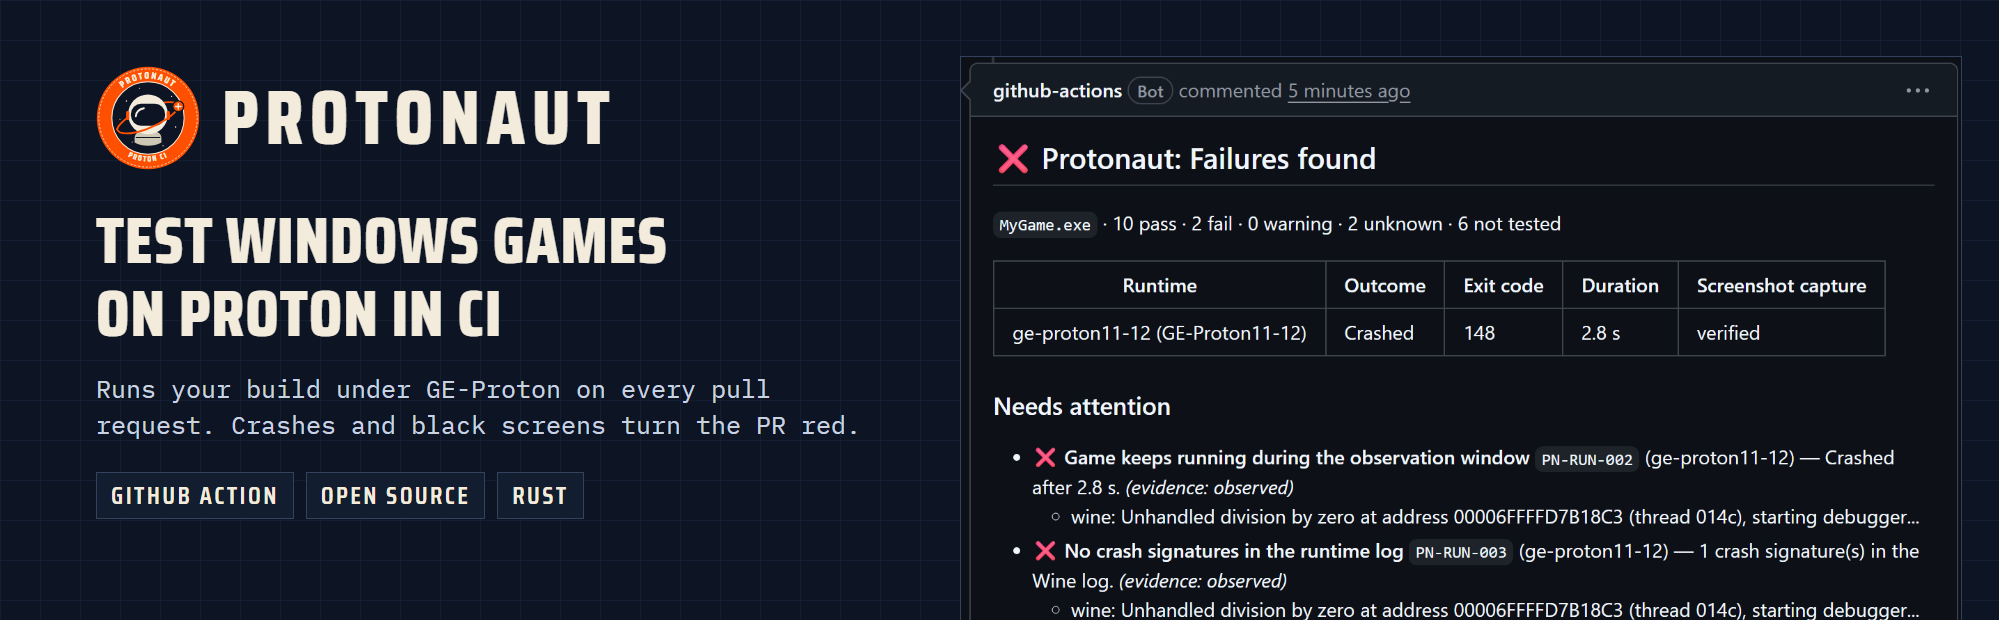
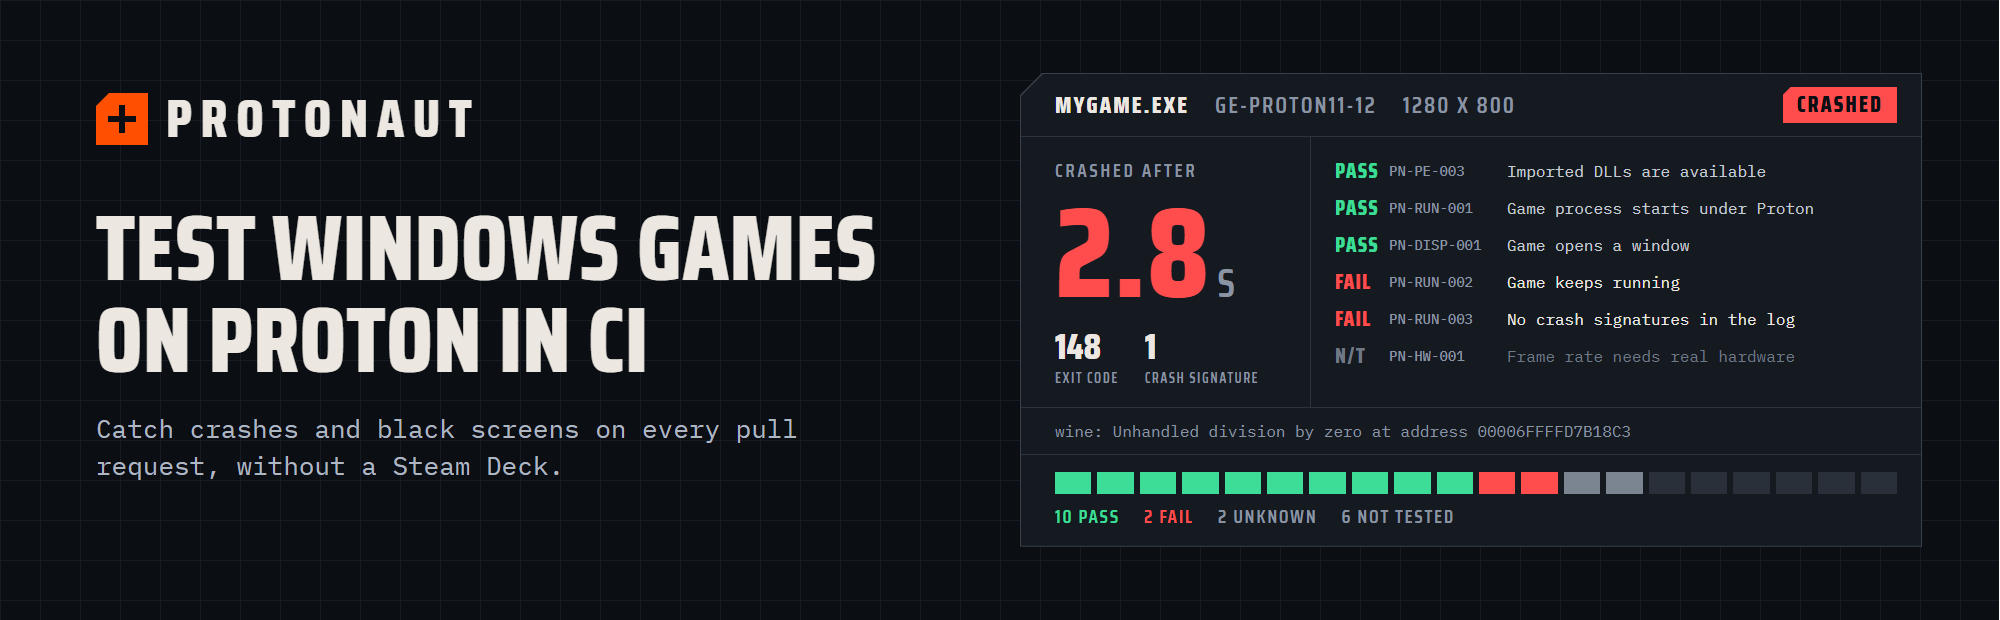
docs: replace the preview cards and unify the brand mark

diff --git a/docs/assets/src/panel.html b/docs/assets/src/panel.html
@@ -1,0 +1,49 @@
+<div class="edge"><div class="panel">
+  <div class="bar"><span class="exe">MYGAME.EXE</span><span class="dim">GE-PROTON11-12</span><span class="dim">1280 X 800</span><b class="chip">CRASHED</b></div>
+  <div class="main">
+    <div class="big">
+      <span class="lab">CRASHED AFTER</span>
+      <div class="num">2.8<small>S</small></div>
+      <div class="mini"><div><b>148</b><span>EXIT CODE</span></div><div><b>1</b><span>CRASH SIGNATURE</span></div></div>
+    </div>
+    <div class="list">
+      <div><i class="p">PASS</i><u>PN-PE-003</u>Imported DLLs are available</div>
+      <div><i class="p">PASS</i><u>PN-RUN-001</u>Game process starts under Proton</div>
+      <div><i class="p">PASS</i><u>PN-DISP-001</u>Game opens a window</div>
+      <div class="bad"><i class="f">FAIL</i><u>PN-RUN-002</u>Game keeps running</div>
+      <div class="bad"><i class="f">FAIL</i><u>PN-RUN-003</u>No crash signatures in the log</div>
+      <div class="dimrow"><i>N/T</i><u>PN-HW-001</u>Frame rate needs real hardware</div>
+    </div>
+  </div>
+  <pre>wine: Unhandled division by zero at address 00006FFFFD7B18C3</pre>
+  <div class="foot">
+    <div class="cells"><s class="p"></s><s class="p"></s><s class="p"></s><s class="p"></s><s class="p"></s><s class="p"></s><s class="p"></s><s class="p"></s><s class="p"></s><s class="p"></s><s class="f"></s><s class="f"></s><s class="u"></s><s class="u"></s><s></s><s></s><s></s><s></s><s></s><s></s></div>
+    <div class="count"><em class="pc">10 PASS</em><em class="fc">2 FAIL</em><em>2 UNKNOWN</em><em>6 NOT TESTED</em></div>
+  </div>
+</div></div>
+<style>
+.edge{--cut:22px;width:900px;background:#39414D;padding:1px;clip-path:polygon(var(--cut) 0,100% 0,100% 100%,0 100%,0 var(--cut))}
+.panel{background:#151A21;clip-path:polygon(var(--cut) 0,100% 0,100% 100%,0 100%,0 var(--cut));color:#ECE8E1}
+.bar{display:flex;align-items:center;gap:26px;height:62px;padding:0 24px 0 34px;border-bottom:1px solid #2C333D;font:600 23px/1 "Saira Condensed";letter-spacing:.09em}
+.exe{font-weight:800}.dim{color:#8A94A3}
+.chip{margin-left:auto;background:#FF4D4D;color:#0B0E13;font:800 22px/1 "Saira Condensed";letter-spacing:.09em;padding:7px 14px;clip-path:polygon(8px 0,100% 0,100% 100%,0 100%,0 8px)}
+.main{display:grid;grid-template-columns:290px 1fr;border-bottom:1px solid #2C333D}
+.big{padding:24px 26px 20px 34px;border-right:1px solid #2C333D}
+.lab{font:600 19px/1 "Saira Condensed";letter-spacing:.14em;color:#8A94A3}
+.num{font:800 128px/1 "Saira Condensed";color:#FF4D4D;margin:8px 0 12px}
+.num small{font:600 40px/1 "Saira Condensed";margin-left:8px;color:#8A94A3}
+.mini{display:flex;gap:26px}.mini b{display:block;font:800 36px/1 "Saira Condensed"}
+.mini span{display:block;font:600 14px/1.2 "Saira Condensed";letter-spacing:.11em;color:#8A94A3;margin-top:5px}
+.list{padding:15px 24px}
+.list div{display:grid;grid-template-columns:54px 118px 1fr;align-items:center;height:37px;font:400 16px/1 "IBM Plex Mono";color:#C5CBD3;white-space:nowrap}
+.list i{font:800 21px/1 "Saira Condensed";font-style:normal;letter-spacing:.06em}
+.list u{text-decoration:none;font:500 14px/1 "IBM Plex Mono";color:#8A94A3}
+.p{color:#3DDC97}.f{color:#FF4D4D}.bad{color:#ECE8E1!important}.dimrow,.dimrow i{color:#6F7885!important}
+pre{margin:0;padding:15px 34px;border-bottom:1px solid #2C333D;font:400 16px/1 "IBM Plex Mono";color:#8A94A3}
+.foot{padding:17px 24px 20px 34px}
+.cells{display:grid;grid-template-columns:repeat(20,1fr);gap:6px;margin-bottom:13px}
+.cells s{display:block;height:22px;background:#2A3039}
+.cells s.p{background:#3DDC97}.cells s.f{background:#FF4D4D}.cells s.u{background:#7B8592}
+.count{display:flex;gap:24px;font:600 19px/1 "Saira Condensed";letter-spacing:.09em;color:#8A94A3}
+.count em{font-style:normal}.pc{color:#3DDC97}.fc{color:#FF4D4D}
+</style>

diff --git a/site/index.html b/site/index.html
@@ -28,7 +28,7 @@
 @font-face{font-family:"Saira Condensed";font-weight:600;font-display:swap;src:url(assets/fonts/saira-condensed-latin-600-normal.woff2)}
 @font-face{font-family:"IBM Plex Mono";font-weight:400;font-display:swap;src:url(assets/fonts/ibm-plex-mono-latin-400-normal.woff2)}
 @font-face{font-family:"IBM Plex Mono";font-weight:500;font-display:swap;src:url(assets/fonts/ibm-plex-mono-latin-500-normal.woff2)}
-:root{--ink:#0D1524;--panel:#131D30;--line:#26334D;--bone:#F3ECDD;--mute:#A7B3C7;--orange:#FF4F00;--go:#39D98A;--nogo:#FF5C5C;--warn:#F2C14E}
+:root{--ink:#0B0E13;--panel:#151A21;--line:#2C333D;--bone:#ECE8E1;--mute:#A7B3C7;--orange:#FF4F00;--go:#39D98A;--nogo:#FF5C5C;--warn:#F2C14E}
 *{box-sizing:border-box}
 html{scroll-behavior:smooth}
 body{margin:0;background:var(--ink);color:var(--bone);font:400 17px/1.6 "IBM Plex Mono",ui-monospace,monospace;overflow-x:hidden}
@@ -45,7 +45,7 @@ h1,h2,h3{font-family:"Saira Condensed",sans-serif;line-height:1.02;margin:0}
 .hero h1{font-weight:800;font-size:clamp(48px,7.2vw,92px);letter-spacing:.005em}
 .hero h1 em{font-style:normal;color:var(--orange)}
 .lead{color:var(--mute);margin:24px 0 30px;max-width:560px}
-.cta{display:inline-flex;align-items:center;gap:12px;background:var(--orange);color:#0D1524;font:800 21px/1 "Saira Condensed";letter-spacing:.04em;padding:16px 26px;text-decoration:none;transition:transform .15s,background .15s}
+.cta{display:inline-flex;align-items:center;gap:12px;background:var(--orange);color:#0B0E13;font:800 21px/1 "Saira Condensed";letter-spacing:.04em;padding:16px 26px;text-decoration:none;transition:transform .15s,background .15s}
 .cta:hover{background:var(--bone);transform:translateX(5px)}
 .cta2{margin-left:18px;color:var(--bone);font-size:15px}
 .board{border:1px solid var(--line);background:var(--panel)}
@@ -55,10 +55,8 @@ h1,h2,h3{font-family:"Saira Condensed",sans-serif;line-height:1.02;margin:0}
 @keyframes in{to{opacity:1;transform:none}}
 .s-pass{color:var(--go)}.s-fail{color:var(--nogo)}.s-nt{color:var(--mute)}
 .call{display:flex;align-items:center;justify-content:space-between;gap:12px;border-top:1px solid var(--line);padding:14px 16px;font:800 34px/1 "Saira Condensed";letter-spacing:.05em;min-height:66px;transition:background .3s,color .3s}
-.call.nogo{background:var(--nogo);color:#0D1524}.call.go{background:var(--go);color:#0D1524}
+.call.nogo{background:var(--nogo);color:#0B0E13}.call.go{background:var(--go);color:#0B0E13}
 .call small{font:400 12px/1.3 "IBM Plex Mono";letter-spacing:0;text-align:right}
-.patch{position:fixed;right:-150px;bottom:-150px;width:480px;opacity:.06;z-index:-1;animation:spin 90s linear infinite}
-@keyframes spin{to{transform:rotate(360deg)}}
 section{padding:64px 0;border-top:1px solid var(--line)}
 h2{font-weight:800;font-size:clamp(36px,5vw,58px);margin-bottom:24px}
 pre{background:var(--panel);border:1px solid var(--line);padding:18px;overflow-x:auto;margin:0;font-size:14.5px;line-height:1.6}
@@ -92,7 +90,7 @@ footer{padding:34px 0;border-top:1px solid var(--line);color:var(--mute);font-si
 </head>
 <body>
 <div class="bg"></div>
-<img class="patch" src="assets/patch.png" alt="">
+
 <div class="wrap">
 <nav><a class="brand" href="#">PROTONAUT</a><div><a href="#start">Quick start</a><a href="#catches">What it catches</a><a href="#faq">FAQ</a><a href="https://github.com/Mahan-Imanian/protonaut">GitHub</a></div></nav>
 <header class="hero">

diff --git a/README.md b/README.md
@@ -12,7 +12,7 @@ Protonaut runs your build under pinned GE-Proton on a headless Linux display in 
 [![CI](https://github.com/Mahan-Imanian/protonaut/actions/workflows/ci.yml/badge.svg)](https://github.com/Mahan-Imanian/protonaut/actions/workflows/ci.yml)
 [![Real games](https://github.com/Mahan-Imanian/protonaut/actions/workflows/real-games.yml/badge.svg)](https://github.com/Mahan-Imanian/protonaut/actions/workflows/real-games.yml)
 [![Latest release](https://img.shields.io/github/v/release/Mahan-Imanian/protonaut?color=FF4F00&label=release)](https://github.com/Mahan-Imanian/protonaut/releases/latest)
-[![License: Apache-2.0](https://img.shields.io/badge/license-Apache--2.0-0D1524)](LICENSE)
+[![License: Apache-2.0](https://img.shields.io/badge/license-Apache--2.0-0B0E13)](LICENSE)
 
 [**Website**](https://mahan-imanian.github.io/protonaut/) ·
 [Quick start](#quick-start) ·
